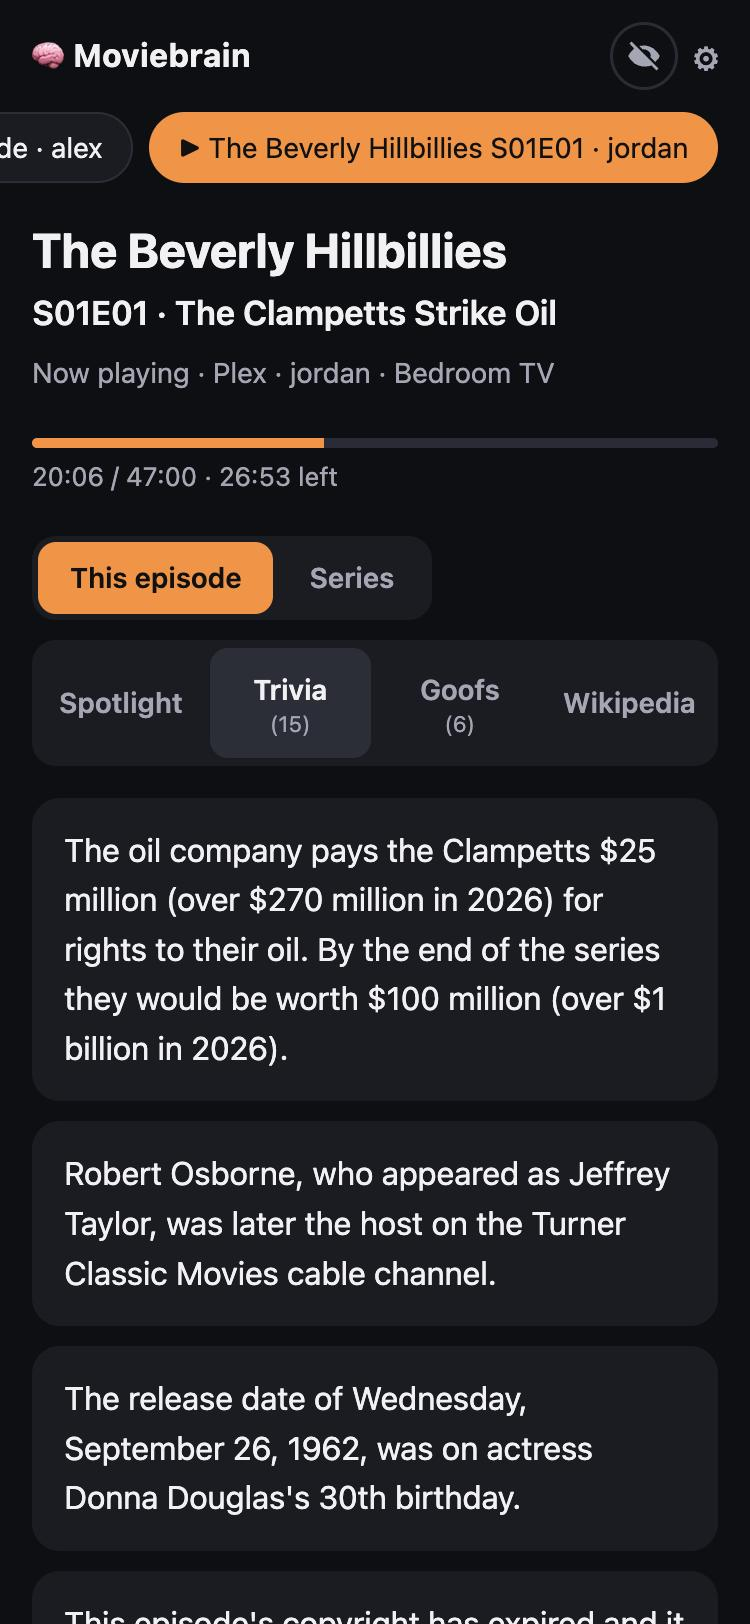
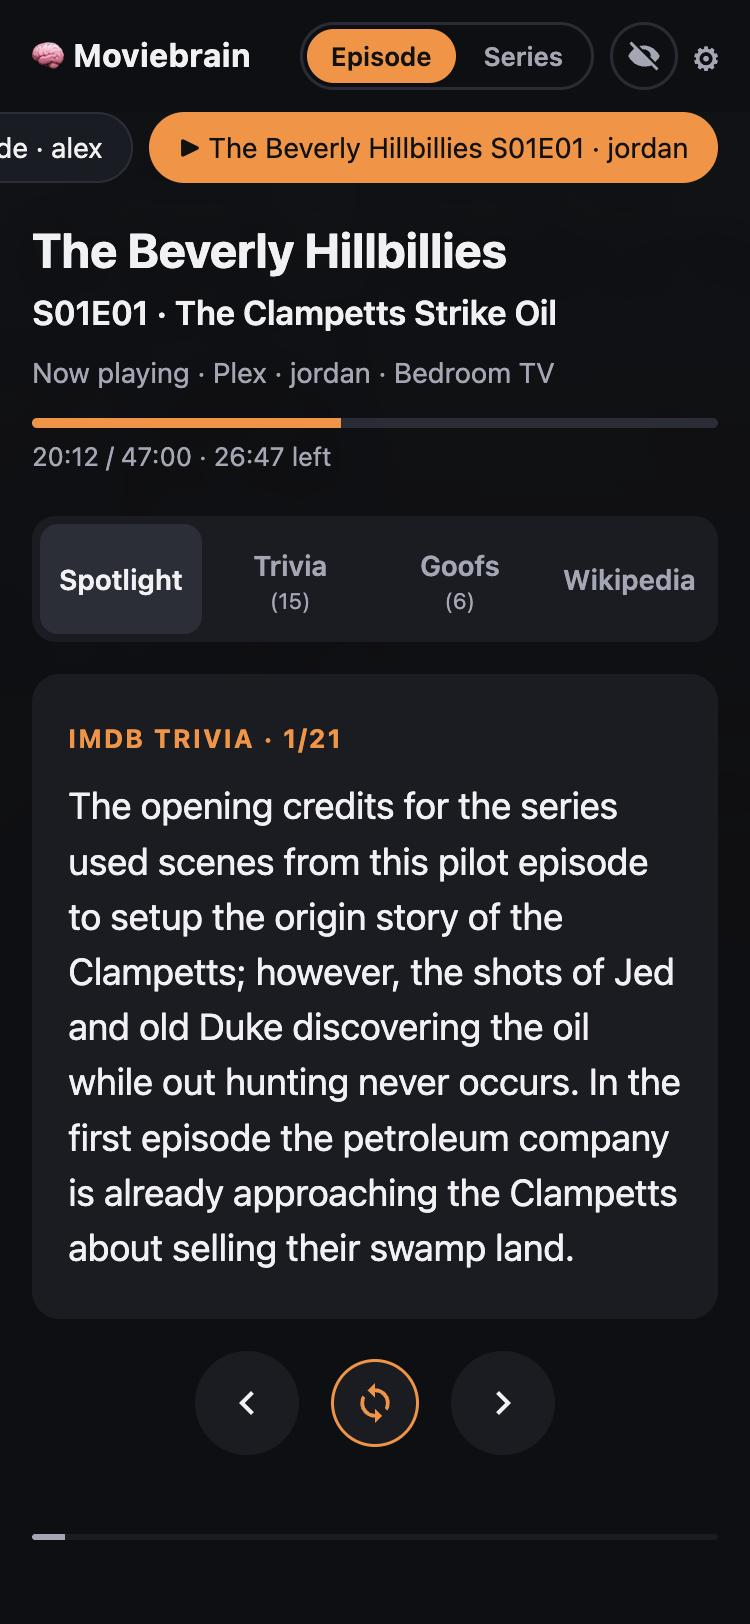
Move Episode/Series toggle to the top bar; only show it for TV
- The toggle showed for movies too: its display: flex overrode the
  hidden attribute. A global [hidden] rule now always wins.
- The toggle now sits in the top bar next to the spoiler button,
  sized to match, and is hidden for movies and when nothing plays.
- README wording and TV screenshot updated.

diff --git a/app/static/style.css b/app/static/style.css
@@ -14,6 +14,8 @@
 }
 
 * { box-sizing: border-box; }
+/* Elements with their own display (flex, grid…) would otherwise ignore the hidden attribute. */
+[hidden] { display: none !important; }
 
 html, body { margin: 0; }
 
@@ -81,7 +83,6 @@ main { max-width: 900px; margin: 0 auto; padding: 0 16px 48px; }
   width: 140px; aspect-ratio: 2 / 3; object-fit: cover; flex: none;
   border-radius: 10px; background: var(--surface-2); box-shadow: 0 10px 30px rgba(0,0,0,.5);
 }
-.poster[hidden] { display: none; }
 .hero-text { min-width: 0; flex: 1; }
 h1 { margin: 0 0 4px; font-size: clamp(1.5rem, 4vw, 2.4rem); line-height: 1.15; }
 .tagline { margin: 0 0 6px; color: var(--muted); font-style: italic; }
@@ -101,9 +102,12 @@ h1 { margin: 0 0 4px; font-size: clamp(1.5rem, 4vw, 2.4rem); line-height: 1.15; 
 
 /* Episode / Series / Both, shown while a TV episode plays */
 .segmented {
-  display: flex; gap: 2px; padding: 3px; margin: 0 0 10px; border-radius: 12px;
+  display: flex; gap: 2px; padding: 3px; border-radius: 12px;
   background: var(--surface); width: fit-content; max-width: 100%;
 }
+/* In the top bar it matches the height of the spoiler button. */
+.topbar .segmented { height: 34px; padding: 2px; border-radius: 17px; border: 1.5px solid var(--surface-2); background: none; }
+.topbar .segmented button { padding: 0 12px; border-radius: 15px; font-size: 13px; }
 .segmented button {
   padding: 7px 16px; border-radius: 9px; font-size: 14px; font-weight: 600; color: var(--muted); cursor: pointer;
   white-space: nowrap;

diff --git a/app/static/index.html b/app/static/index.html
@@ -16,6 +16,10 @@
   <header class="topbar">
     <div class="brand">🧠 Moviebrain</div>
     <div class="actions">
+      <div id="tv-view" class="segmented" role="radiogroup" aria-label="Show facts about" hidden>
+        <button role="radio" data-view="episode" aria-checked="true">Episode</button>
+        <button role="radio" data-view="series" aria-checked="false">Series</button>
+      </div>
       <button id="spoilers" class="pill-toggle" aria-pressed="false" title="Spoilers hidden: tap a blurred fact to reveal it">
         <svg viewBox="0 0 24 24" aria-hidden="true"><path id="spoiler-icon" d=""/></svg><span class="label">Spoilers</span>
       </button>
@@ -52,11 +56,6 @@
             <p id="progress-text" class="meta small"></p>
           </div>
         </div>
-      </div>
-
-      <div id="tv-view" class="segmented" role="radiogroup" aria-label="Show facts about" hidden>
-        <button role="radio" data-view="episode" aria-checked="true">This episode</button>
-        <button role="radio" data-view="series" aria-checked="false">Series</button>
       </div>
 
       <div class="tabs" role="tablist">

diff --git a/app/static/app.js b/app/static/app.js
@@ -81,6 +81,7 @@ function render() {
   if (!movie) {
     setBackdrop(null);
     state.movie = null;
+    renderTvView();
     $("empty-detail").textContent = emptyMessage();
     const c = (state.serverInfo && state.serverInfo.configured) || {};
     $("setup-link").hidden = !!(c.plex || c.jellyfin) || !state.isAdmin;
@@ -329,7 +330,7 @@ function subject() {
   return isTv() ? (state.filters.scopes.series ? "show" : "episode") : "movie";
 }
 
-const SERIES_HINT = " Tap Series above for trivia about the whole show.";
+const SERIES_HINT = " Tap Series at the top for trivia about the whole show.";
 
 // Long Wikipedia paragraphs read badly on a card; keep the first few sentences.
 function trimSentences(text, max = 420) {

diff --git a/README.md b/README.md
@@ -22,7 +22,7 @@ Trivia for whatever you're watching. Moviebrain checks what's playing on **Plex*
 - **Spotlight**: one fact at a time. Tap the card or use ← → to skip. The circular-arrows button turns auto-advance on (a new fact every 20 seconds) or off.
 - **Trivia** and **Goofs**: the full IMDb lists. Spoilers stay blurred until you tap them, or tap the eye button in the header to show them all.
 - **Wikipedia**: production, release, reception and legacy sections. Plot sections are always skipped.
-- **TV shows**: trivia, goofs and Wikipedia for the episode on screen, or tap **Series** to toggle to facts about the whole show (remembered per device).
+- **TV shows**: trivia, goofs and Wikipedia for the episode on screen, or tap **Series** in the top bar for facts about the whole show (remembered per device).
 - **Ratings & awards** (optional, free OMDb key): IMDb, Rotten Tomatoes and Metacritic scores, awards and box office under the title, plus OMDb facts in Spotlight.
 - **Choose your sources** in Settings: switch each source on or off, pick Wikipedia sections and kinds of goofs, and pick whether TV starts on the episode or the series.
 - **Several things playing?** Buttons at the top switch between them. Nothing playing? Look up any movie by name.
